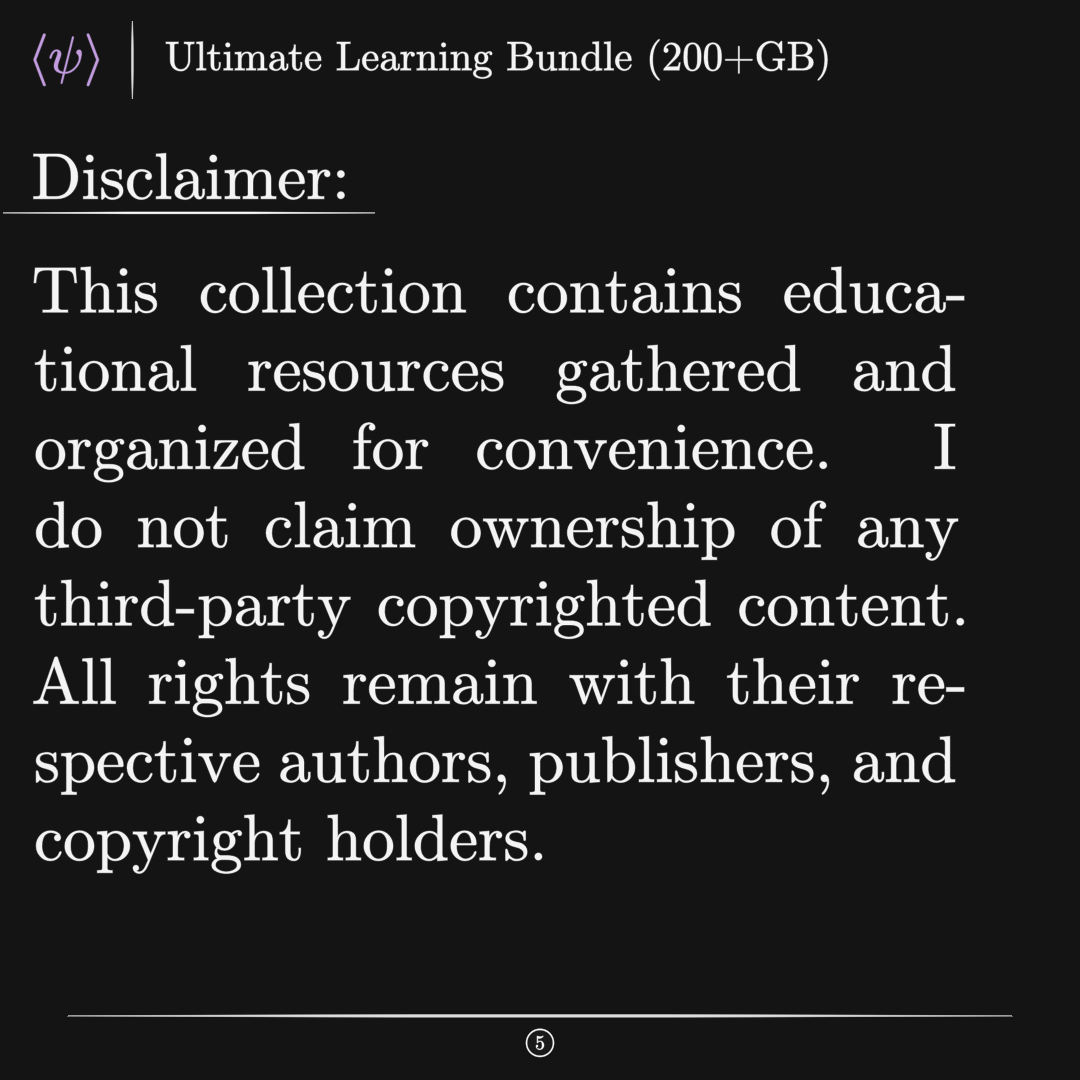
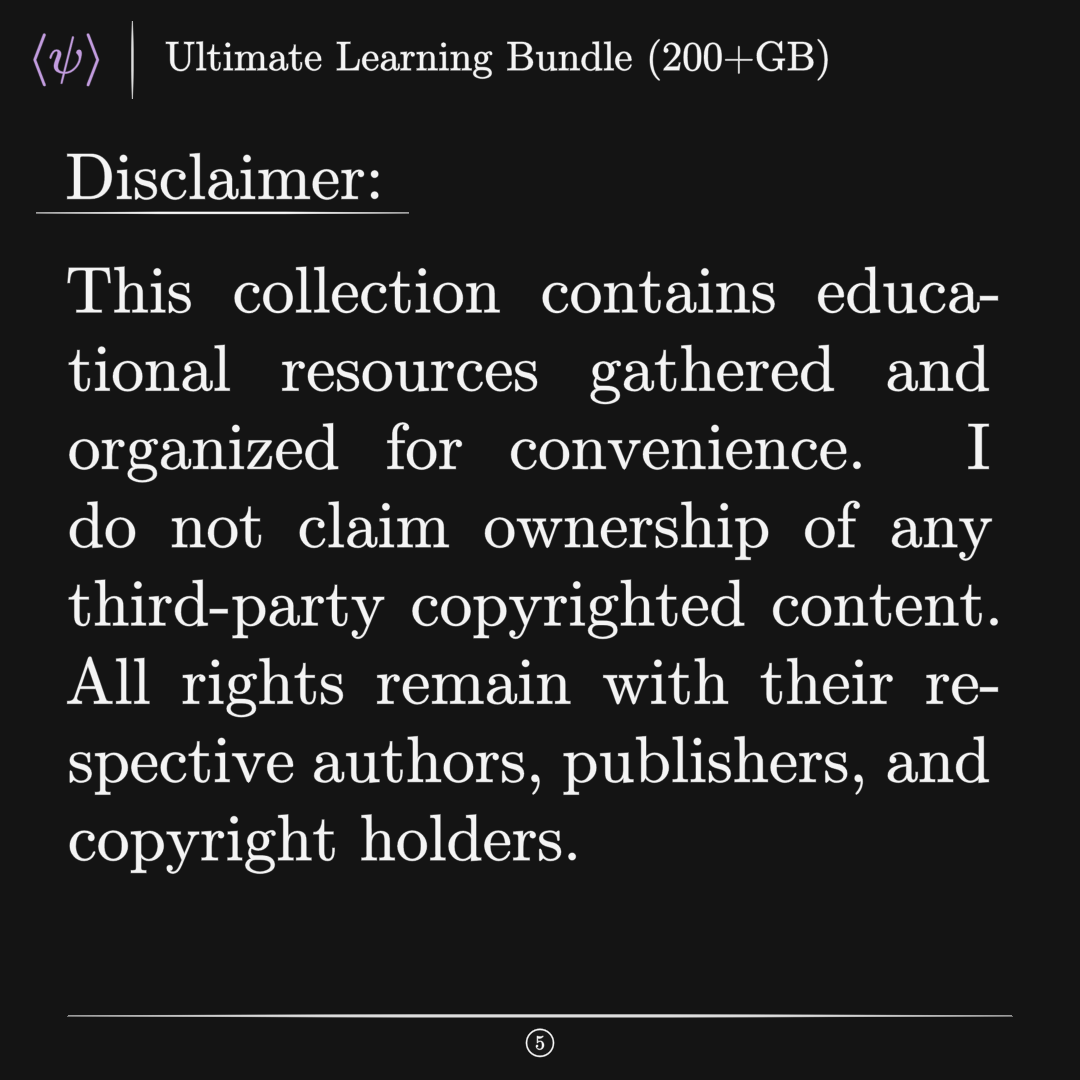
f

Changed region(s): [[0.0306, 0.2444, 0.9167, 0.825], [0.0306, 0.1222, 0.3667, 0.2139]]

diff --git a/test.py b/test.py
@@ -225,7 +225,7 @@ class Dis(PaidTemplate):
     def construct(self):
         t = TexText("Disclaimer:")
         t.next_to(self.logo, DOWN, buff=MED_LARGE_BUFF, aligned_edge=LEFT)
-        t.shift(0)
+        t.shift(0.25 * RIGHT)
         under = Underline(t, stroke_width=[0.5, 1.5, 1.5, 0.5])
         self.add(t, under)
         dis = TexText(
